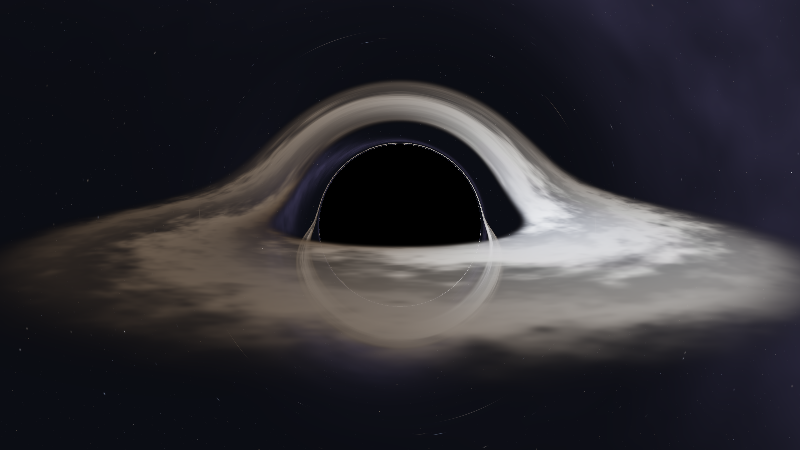
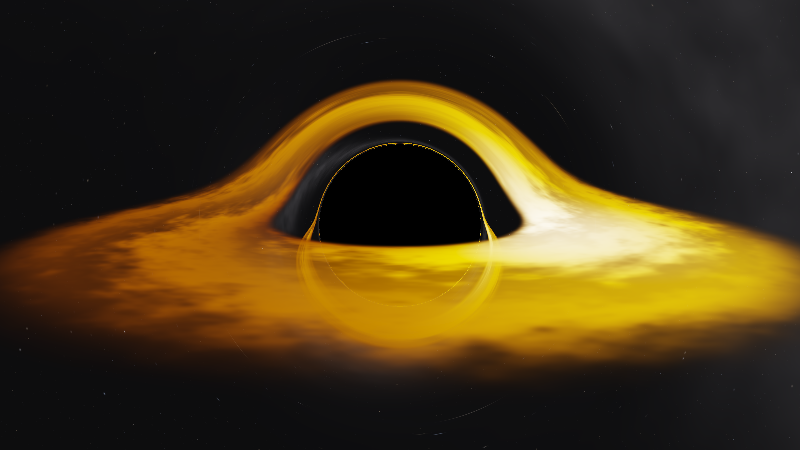
shader: neutralise the arbitrary blue tint in the background sky

diff --git a/include/BlackHole.hpp b/include/BlackHole.hpp
@@ -22,8 +22,16 @@ public:
     float diskOuterRadii    = 20.0f;  // outer edge, in units of M
 
     // Disk appearance.
-    float diskTemperature = 6500.0f;  // peak local blackbody temperature (K)
-    float diskBrightness  = 0.50f;
+    //
+    // diskTemperature is the PEAK local blackbody temperature and is an
+    // artistic choice, not a physical one. Real thin disks run 1e4-1e7 K, which
+    // renders as white or blue-white because the normalised Planckian locus is
+    // almost colourless above ~5000 K. 2000 K puts the peak in the saturated
+    // orange part of the curve, so the radial temperature gradient and the
+    // Doppler shift both read as visible colour. Raise it towards 10000 for
+    // physical realism and a much paler disk.
+    float diskTemperature = 2000.0f;  // peak local blackbody temperature (K)
+    float diskBrightness  = 1.60f;
     float diskOpacity     = 0.80f;    // per-crossing opacity of the (thin) disk
 
     // ---- Derived quantities -------------------------------------------------

diff --git a/src/main.cpp b/src/main.cpp
@@ -268,8 +268,8 @@ int main()
     app.hole.mass           = 1.0f;    // M, geometrised units
     app.hole.spin           = 0.85f;   // a/M
     app.hole.diskOuterRadii = 20.0f;   // outer disk edge, in units of M
-    app.hole.diskTemperature = 6500.0f;
-    app.hole.diskBrightness  = 0.50f;
+    app.hole.diskTemperature = 2000.0f;
+    app.hole.diskBrightness  = 1.60f;
     app.hole.diskOpacity     = 0.80f;
 
     app.camera.setDefaults(/*distance*/ 26.0f * app.hole.mass,

diff --git a/README.md b/README.md
@@ -206,7 +206,7 @@ Everything worth changing lives in the setup block in `src/main.cpp` and in
 hole.mass            = 1.0f;    // M
 hole.spin            = 0.85f;   // a/M
 hole.diskOuterRadii  = 20.0f;   // outer disk edge, in M
-hole.diskTemperature = 6500.0f; // peak local blackbody temperature (K)
+hole.diskTemperature = 2000.0f; // peak local blackbody temperature (K)
 
 renderer.setRenderScale(0.25f); // trace resolution / window resolution
 renderer.maxSteps  = 320;       // RK4 steps per photon
@@ -249,6 +249,32 @@ that exist for specific reasons:
 - `0.25 · (r - r₊)`, so no RK4 stage can land inside the horizon.
 
 ---
+
+## A note on the disk colour
+
+`diskTemperature` is the peak **local** blackbody temperature and is an artistic
+choice, not a physical one.
+
+The rendered hue is `blackbody(T_local x g)`, and the normalised Planckian locus
+is almost colourless above about 5000 K:
+
+| T (K) | normalised RGB | look |
+|---|---|---|
+| 1500 | (1.00, 0.42, 0.00) | deep red |
+| 2000 | (1.00, 0.54, 0.05) | orange |
+| 2500 | (1.00, 0.62, 0.27) | amber |
+| 3400 | (1.00, 0.74, 0.53) | pale tan |
+| 6500 | (1.00, 1.00, 0.98) | near white |
+
+So a physically realistic disk (1e4-1e7 K for real accretion flows) renders as a
+white or blue-white smear with no visible colour structure at all. The default of
+2000 K puts the peak in the saturated part of the curve, which is what makes the
+radial temperature gradient and the Doppler shift legible as colour: deep red at
+the outer edge, yellow-white at the inner edge, hot white on the approaching
+side.
+
+Raise it towards 10000 for realism and a much paler image. The physics is
+identical either way; only the colour lookup changes.
 
 ## Known limitations
 
